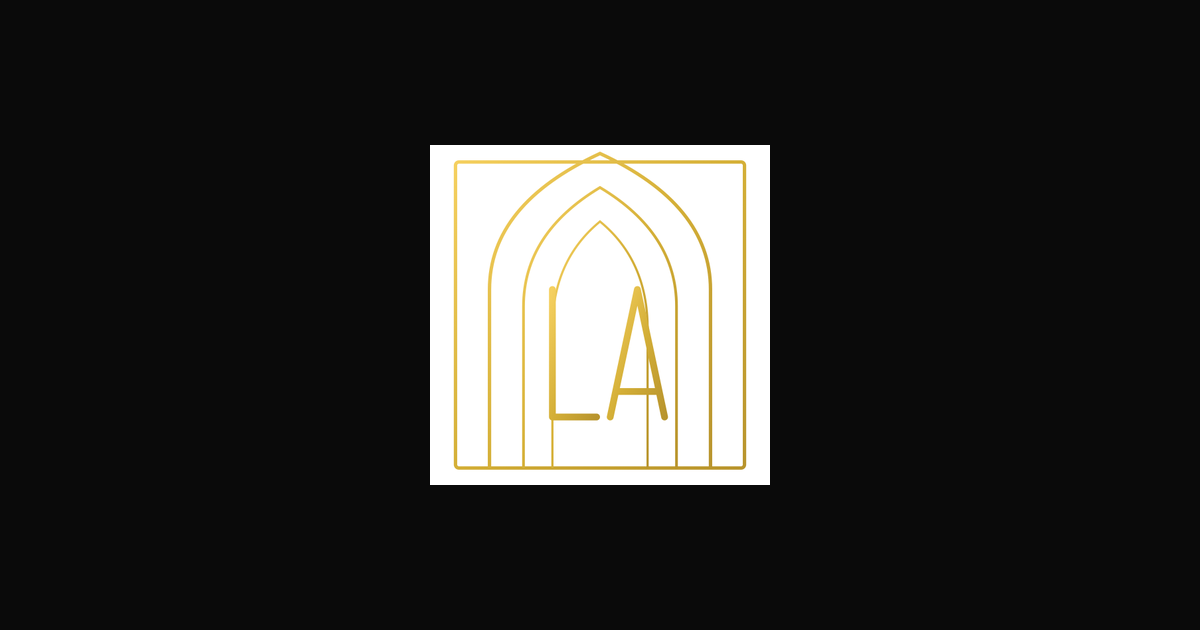
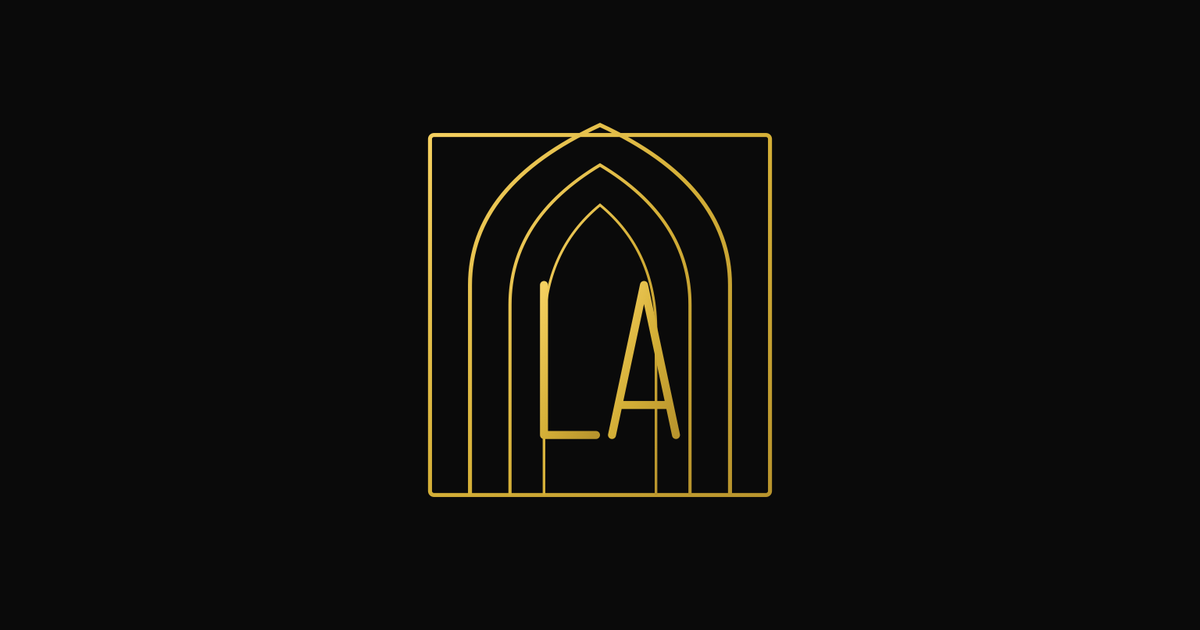
Fix OG image white background and hero buttons on mobile
- Regenerate og-image.png, logo.png, apple-touch-icon with black background
  instead of white (gold logo mark on dark bg, matching site theme)
- Fix hero CTA buttons stacking vertically on mobile: add hero__ctas class
  with reduced padding at 768px and 480px breakpoints so both buttons
  stay side-by-side on all screen sizes

Changed region(s): [[0.3392, 0.181, 0.6475, 0.8143]]

diff --git a/styles.css b/styles.css
@@ -145,6 +145,7 @@ img[loading="lazy"].loaded,img[loading="lazy"].visible-img{opacity:1}
 .hero__title{margin-bottom:clamp(28px,4vh,48px)}
 .hero__bottom{display:flex;align-items:center;justify-content:center;gap:32px;flex-wrap:wrap}
 .hero__desc{max-width:520px;color:var(--gray-muted);text-align:center}
+.hero__ctas{display:flex;gap:16px;margin-top:28px;flex-wrap:nowrap;justify-content:center}
 .hero__scroll-indicator{position:absolute;bottom:32px;left:50%;transform:translateX(-50%);display:flex;flex-direction:column;align-items:center;gap:8px}
 .hero__scroll-line{width:1px;height:48px;background:var(--gray-mid);position:relative;overflow:hidden}
 .hero__scroll-line::after{content:'';position:absolute;top:-100%;left:0;width:100%;height:100%;background:var(--accent);animation:scrollLine 2s ease-in-out infinite}
@@ -706,6 +707,8 @@ img[loading="lazy"].loaded,img[loading="lazy"].visible-img{opacity:1}
 @media(max-width:768px){
   .nav__links{display:none}.nav__toggle{display:flex}
   .hero__scroll-indicator{display:none}
+  .hero__ctas{gap:12px}
+  .hero__ctas .btn{padding:14px 24px;font-size:.75rem}
   .project-item,.project-item:nth-child(even){grid-template-columns:1fr;gap:20px}
   .project-item:nth-child(even) .project-item__visual,.project-item:nth-child(even) .project-item__info{order:unset}
   .project-item__num{display:none}
@@ -755,5 +758,7 @@ img[loading="lazy"].loaded,img[loading="lazy"].visible-img{opacity:1}
   .project-full__details{grid-template-columns:1fr}
   .process-steps{grid-template-columns:1fr}
   .pricing-main::before{display:none}
+  .hero__ctas{gap:10px}
+  .hero__ctas .btn{padding:12px 18px;font-size:.7rem;letter-spacing:.06em}
 }
 @media(max-width:480px){:root{--pad:20px}}

diff --git a/index.html b/index.html
@@ -142,7 +142,7 @@
     </h1>
     <div class="hero__bottom reveal">
       <p class="hero__desc body-lg">Modern web experiences built with precision. Branding, design, development &amp; interactive strategies &mdash; starting at $999.</p>
-      <div style="display:flex;gap:16px;margin-top:28px;flex-wrap:wrap">
+      <div class="hero__ctas">
         <a href="services.html#pricing" class="btn magnetic">See Pricing <span class="btn-arrow">&rarr;</span></a>
         <a href="contact.html" class="btn btn--filled magnetic">Get a Quote <span class="btn-arrow">&rarr;</span></a>
       </div>
